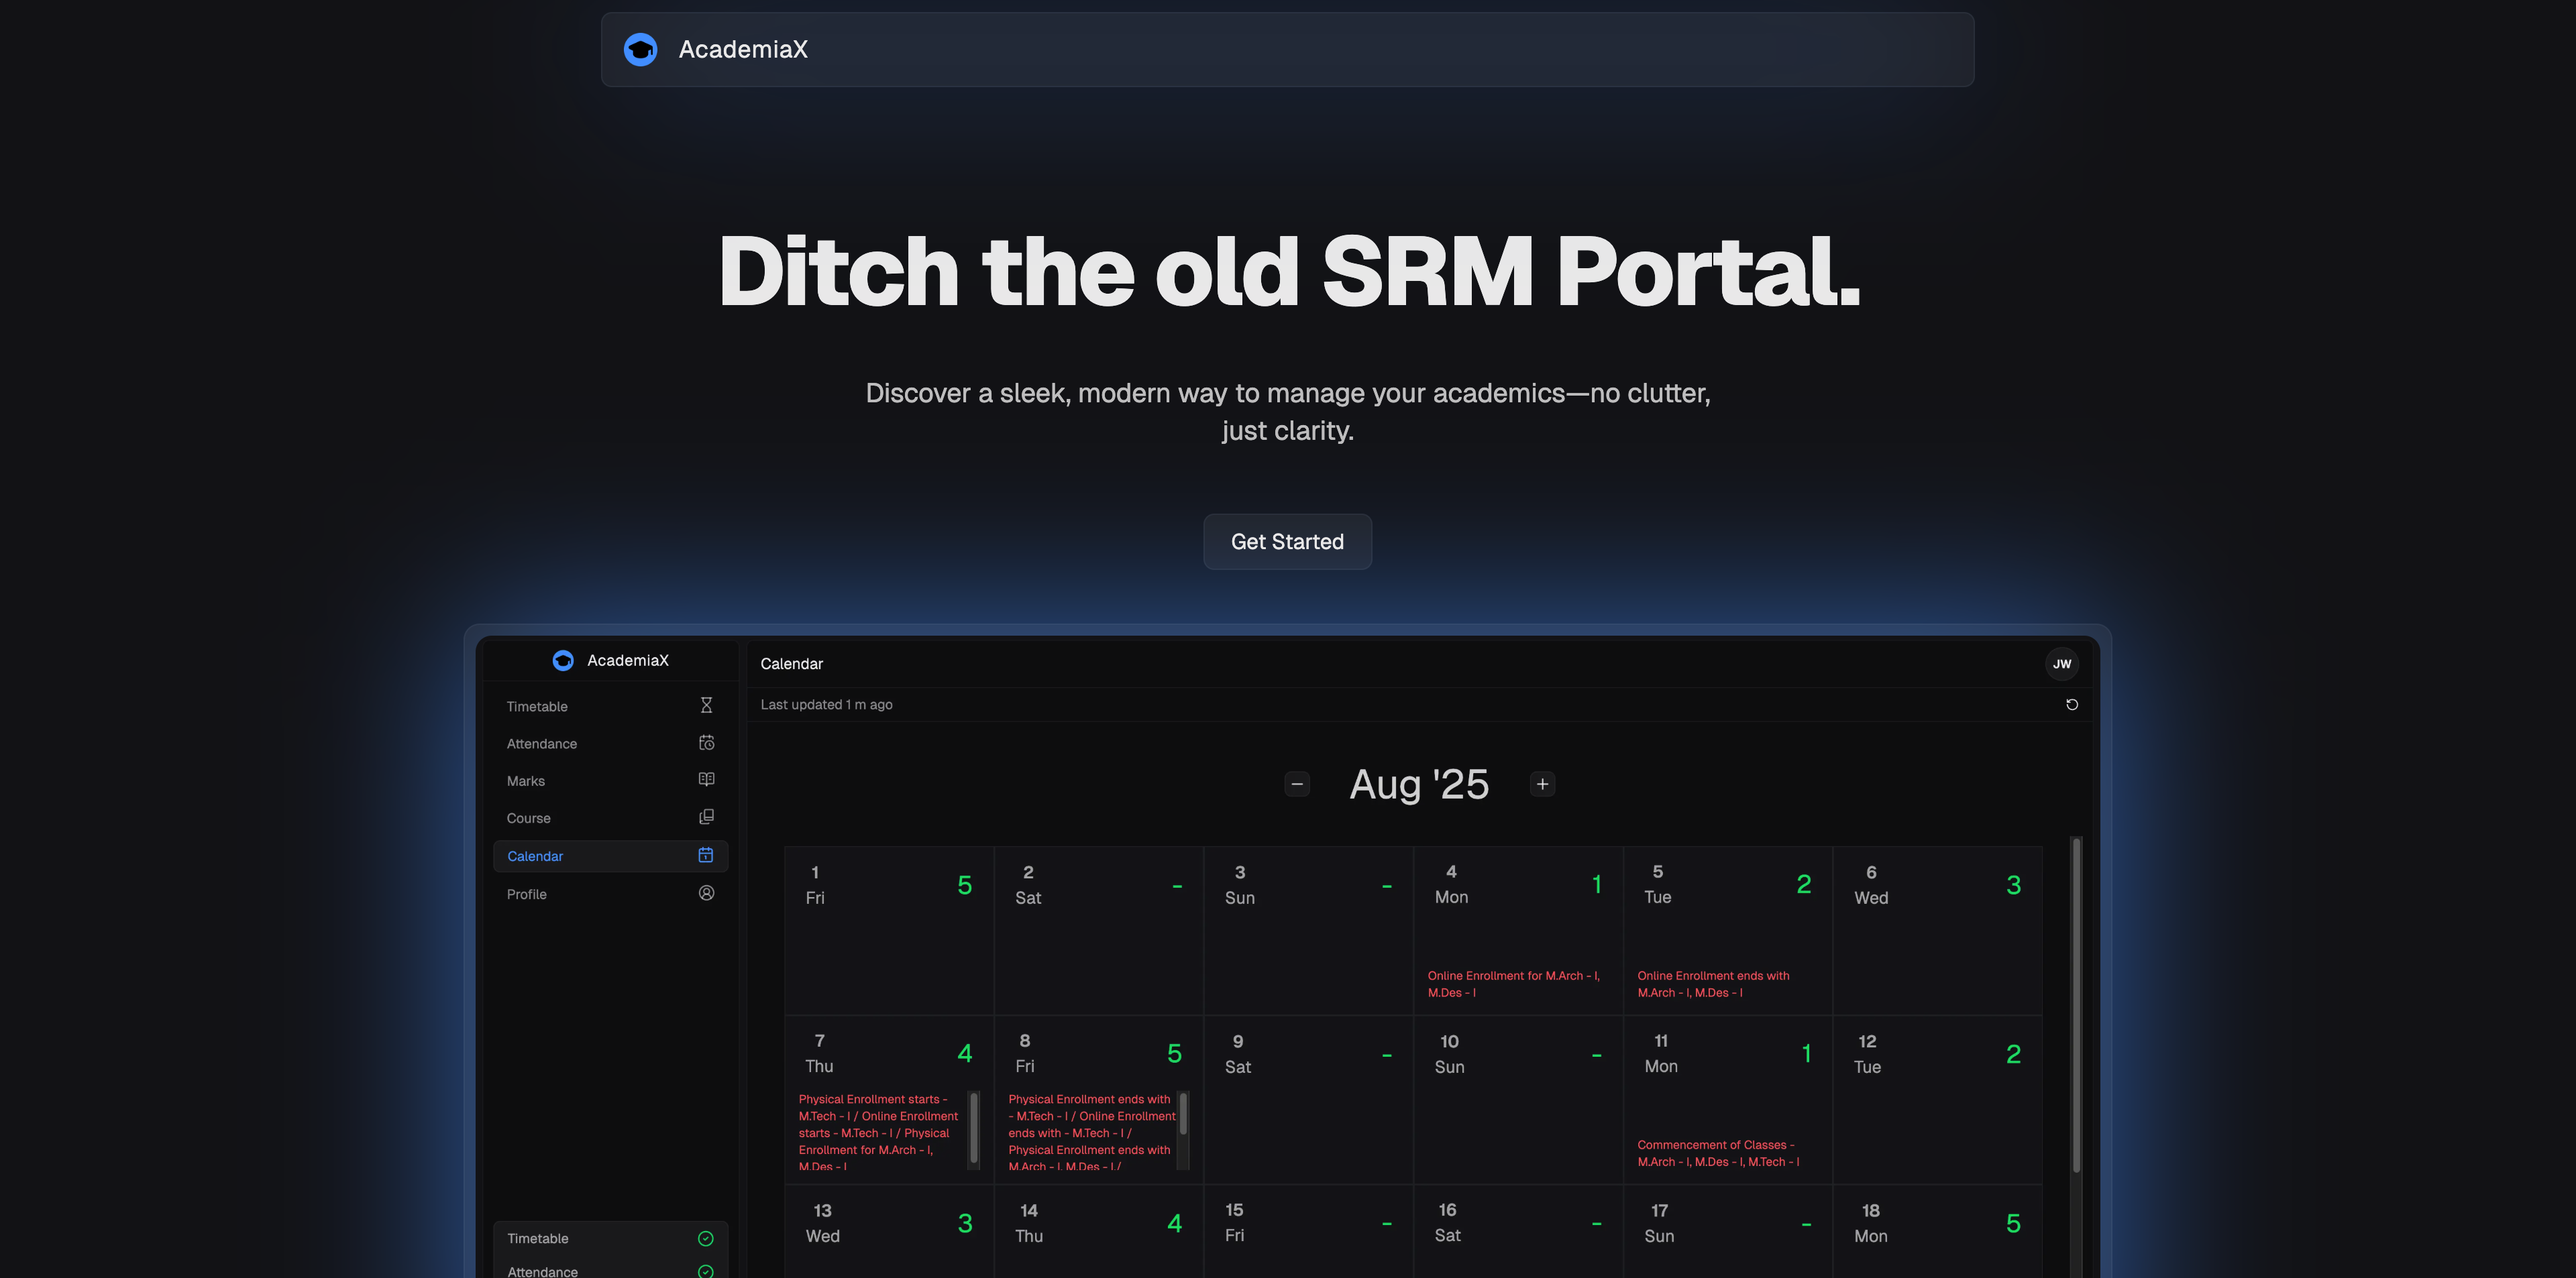
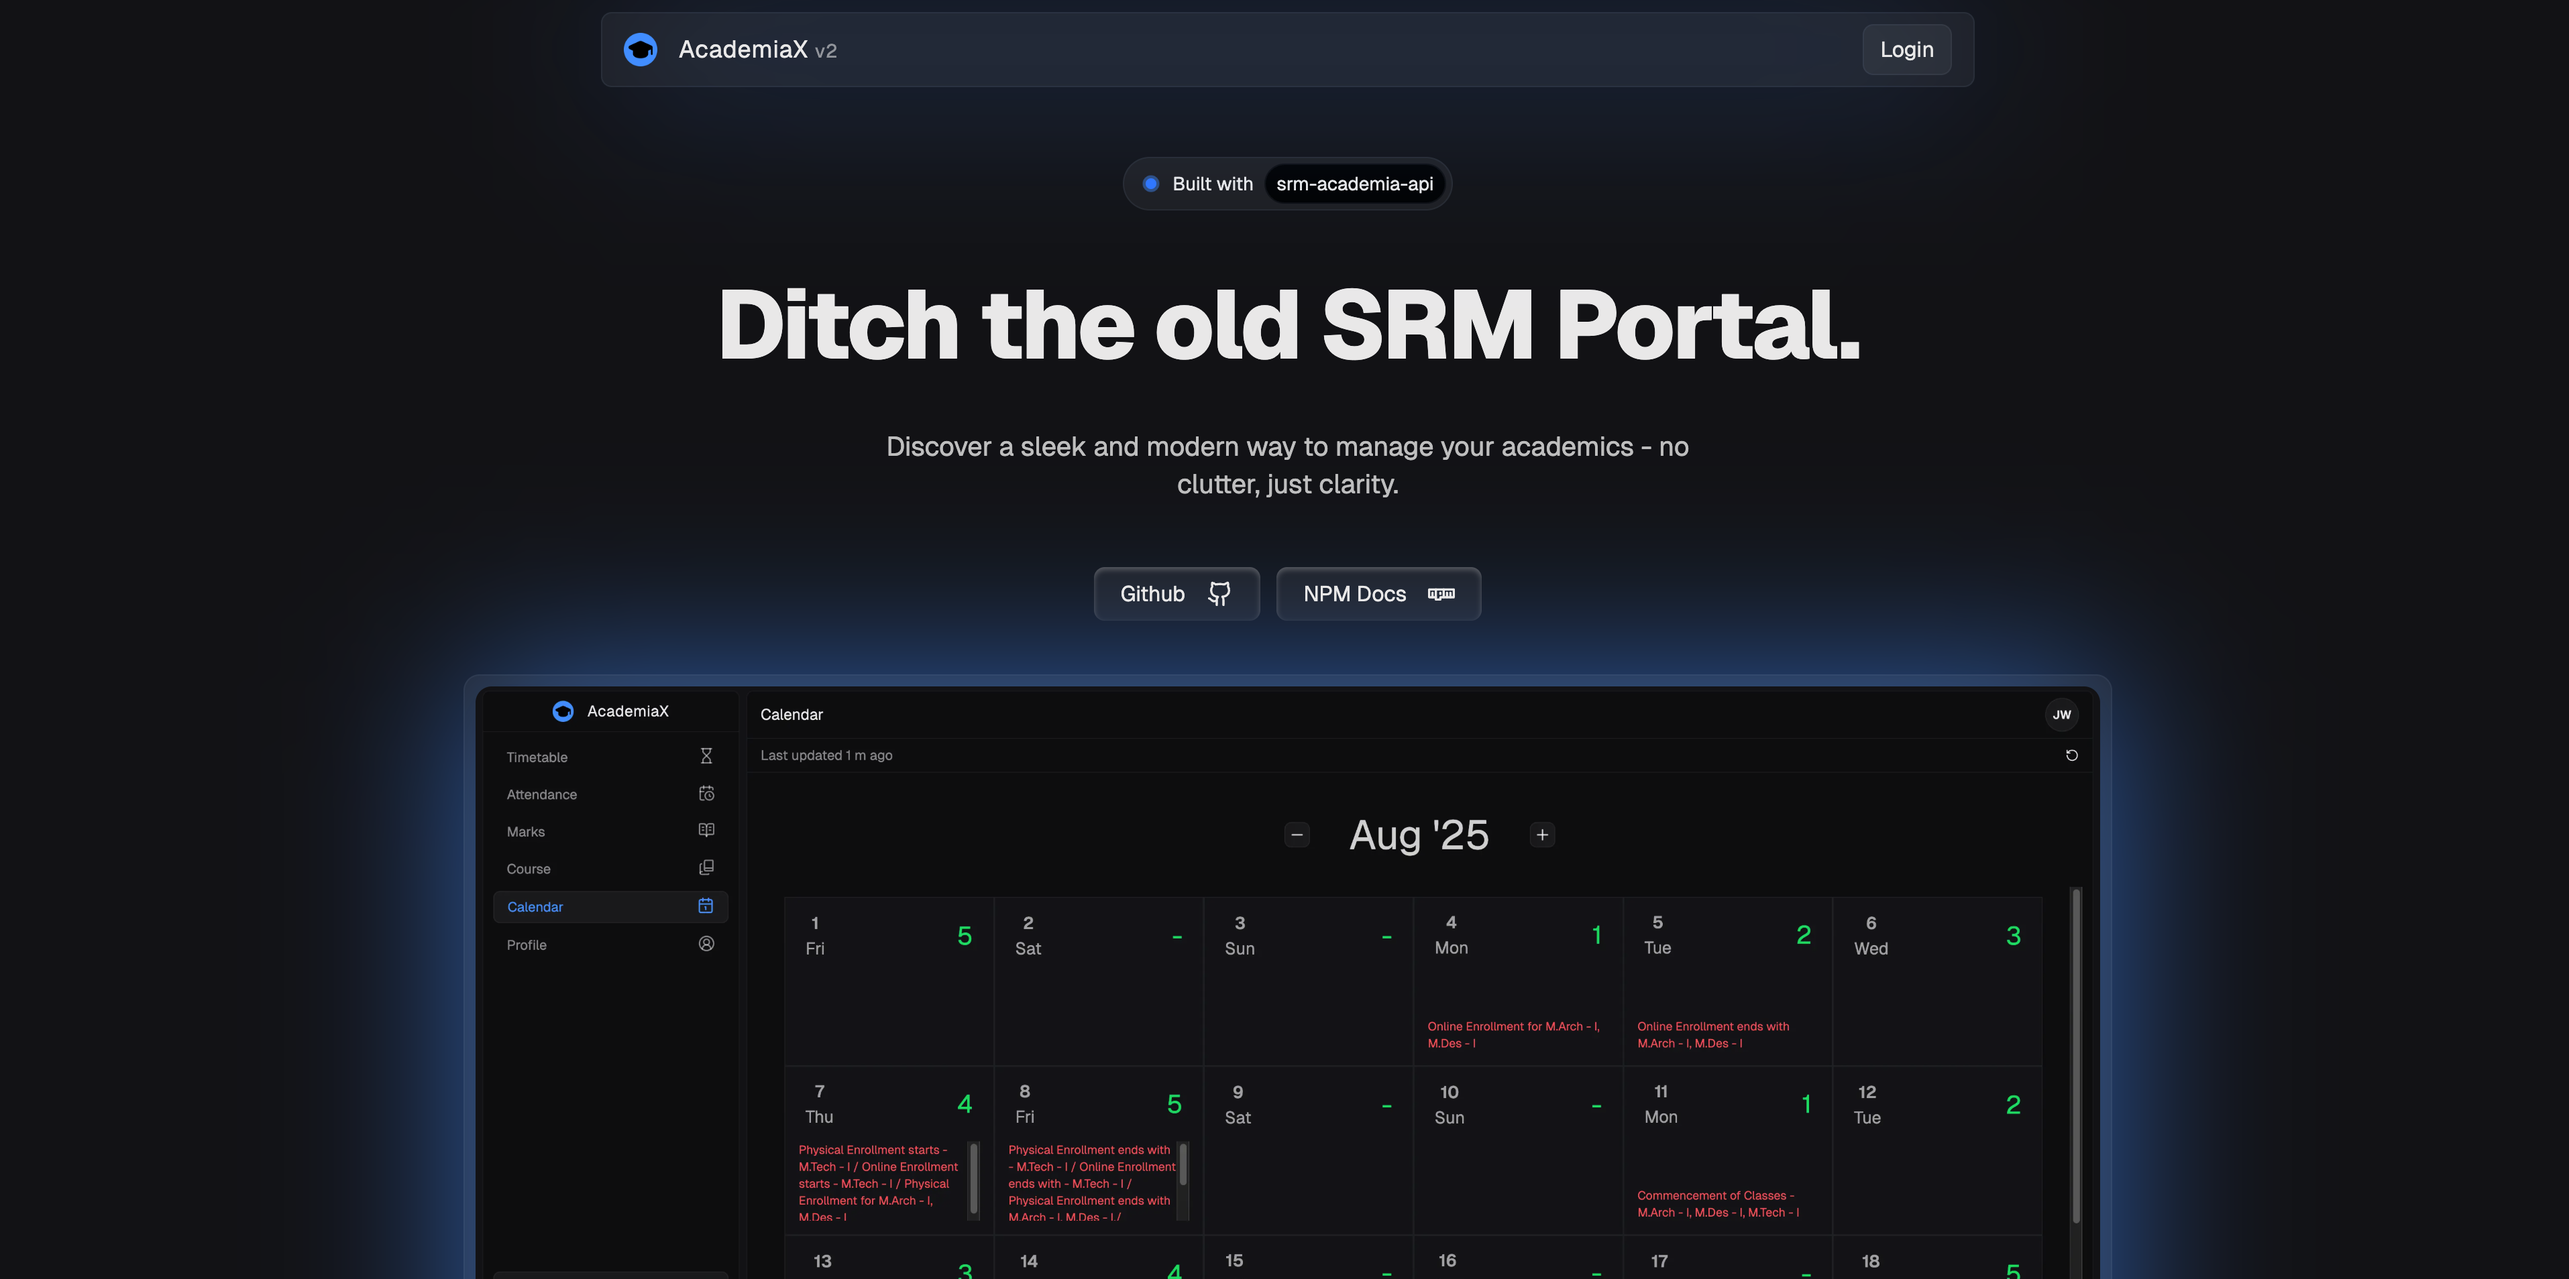
Improved UI

diff --git a/src/app/components/loginComponent.tsx b/src/app/components/loginComponent.tsx
@@ -76,8 +76,8 @@ export const LoginComponent = () => {
   };
   return (
     <div className="flex-1 flex items-center justify-center px-6 lg:px-0">
-      <div className="relative max-w-5xl min-h-[50%] w-full rounded-2xl grid grid-cols-1 lg:grid-cols-2 bg-white/5 apply-border-md backdrop-blur-xs">
-        <div className="absolute inset-0 bg-blue-400/30 blur-3xl -z-10 " />
+      <div className="relative max-w-5xl min-h-[50%] w-full rounded-2xl grid grid-cols-1 lg:grid-cols-2 bg-white/5 apply-border-md backdrop-blur-3xl apply-inner-shadow-sm">
+        <div className="absolute inset-0 bg-blue-400/40 blur-3xl -z-10 " />
 
         <div className="flex items-center justify-center min-h-20 lg:text-4xl h-full text-2xl ">
           Login
@@ -94,7 +94,7 @@ export const LoginComponent = () => {
                   id="name"
                   name="name"
                   type="name"
-                  className="w-full px-4 py-2 rounded-xl  bg-white/5 border apply-border-md focus:outline-none focus:ring-2 focus:ring-white/20"
+                  className="w-full px-4 py-3 rounded-xl apply-inner-shadow-sm bg-white/10 focus:outline-none "
                   placeholder="SRM Mail ID"
                   autoComplete="email"
                   autoFocus
@@ -108,7 +108,7 @@ export const LoginComponent = () => {
                     id="password"
                     name="password"
                     type={eyeOpen ? "name" : "password"}
-                    className=" w-full px-4 py-2 rounded-xl bg-white/5 border apply-border-md focus:outline-none focus:ring-2 focus:ring-white/20"
+                    className="w-full px-4 py-3 rounded-xl apply-inner-shadow-sm bg-white/10 focus:outline-none "
                     placeholder="Password"
                     autoComplete="current-password"
                     autoFocus
@@ -134,7 +134,7 @@ export const LoginComponent = () => {
             <button
               type="submit"
               disabled={loading}
-              className="w-full py-2.5  bg-black  text-white flex items-center justify-center border border-white/15 hover:bg-[#23252a] hover:border-white/5 transition rounded-xl cursor-pointer"
+              className="w-full px-4 py-3 rounded-xl apply-inner-shadow-md bg-black  focus:outline-none  flex item-center justify-center cursor-pointer"
             >
               {loading ? <Loader className="w-5 h-5 " /> : "Authenticate"}
             </button>

diff --git a/src/app/app/components/heroSection.tsx b/src/app/app/components/heroSection.tsx
@@ -39,7 +39,7 @@ const Content = () => {
         <a
           href="https://github.com/jackwaghan/academiax"
           target="_blank"
-          className="px-5 py-2 rounded-lg apply-border-md bg-white/5 gap-4 flex items-center justify-between "
+          className="px-5 py-2 rounded-lg  bg-white/5 gap-4 flex items-center justify-between apply-inner-shadow-md"
         >
           <h1>Github</h1>
           <Github className="w-5 h-5" />
@@ -47,7 +47,7 @@ const Content = () => {
         <a
           href="https://www.npmjs.com/package/srm-academia-api"
           target="_blank"
-          className="px-5 py-2 rounded-lg apply-border-md bg-white/5 flex items-center justify-between gap-4 "
+          className="px-5 py-2 rounded-lg apply-inner-shadow-md  bg-white/5 flex items-center justify-between gap-4 "
         >
           <h1>NPM Docs</h1>
           <TbBrandNpm className="w-5 h-5" />

diff --git a/src/app/components/header.tsx b/src/app/components/header.tsx
@@ -5,7 +5,7 @@ import Icon from "@/../public/favicon.svg";
 const Header = ({ value }: { value: string }) => {
   return (
     <div className="w-full min-h-20 flex items-center justify-center lg:px-0 px-3">
-      <div className="relative max-w-5xl w-full flex px-4 h-[70%] items-center justify-between apply-border-md rounded-lg bg-white/5 backdrop-blur-xs">
+      <div className="relative max-w-5xl w-full flex px-4 h-[70%] items-center justify-between apply-border-md rounded-lg bg-white/5 backdrop-blur-xs ">
         <div className="absolute inset-0 bg-blue-400/30 blur-3xl -z-10 " />
         <div className="flex gap-4 items-center justify-center">
           <Image src={Icon} width={25} height={25} alt="icon" />

diff --git a/src/app/app/profile/page.tsx b/src/app/app/profile/page.tsx
@@ -37,7 +37,7 @@ const Data = ({ data }: { data: UserInfo }) => {
           <h1 className="text-2xl font-semibold text-blue-400">{data.name}</h1>
           <span>{data.department}</span>
         </div>
-        <div className="w-full flex flex-col gap-5 bg-[#1b1c21] rounded-lg px-4 py-4 border border-white/5 ">
+        <div className="w-full flex flex-col gap-4 bg-[#1b1c21] rounded-lg px-4 py-4 border border-white/5 ">
           <ProfileRow label="Reg. Number" value={data.regNumber} />
           <ProfileRow label="Mobile" value={data.mobile} />
           <ProfileRow label="Semester" value={data.semester} />

diff --git a/src/app/app/marks/page.tsx b/src/app/app/marks/page.tsx
@@ -40,7 +40,7 @@ const Data = ({ data, category }: { data: MarkDetail[]; category: string }) => {
         return (
           <div
             key={i}
-            className="flex flex-col items-center gap-3 rounded-xl apply-border-md bg-[#16171b] min-h-50 shadow-2xl "
+            className="flex flex-col items-center gap-3 rounded-xl apply-border-md bg-[#16171b] min-h-50 shadow-2xl  "
           >
             <div className="w-full h-full text-white/70  flex flex-col gap-4 ">
               <div className="flex justify-between w-full px-2 min-h-14 items-center border-b border-white/5 gap-4 ">

diff --git a/src/app/app/course/page.tsx b/src/app/app/course/page.tsx
@@ -27,7 +27,7 @@ const Data = ({ data }: { data: CourseDetail[] }) => {
         return (
           <div
             key={i}
-            className="flex flex-col items-center gap-3 rounded-xl apply-border-md bg-[#16171b] min-h-50 shadow-2xl "
+            className="flex flex-col items-center gap-3 rounded-xl apply-border-md bg-[#16171b] min-h-50 shadow-2xl  "
           >
             <div className="w-full h-full text-white/70  flex flex-col gap-4 ">
               <div className="flex justify-between w-full px-2 min-h-12 items-center border-b border-white/5">

diff --git a/src/app/app/attendance/page.tsx b/src/app/app/attendance/page.tsx
@@ -42,7 +42,7 @@ const Data = ({
         return (
           <div
             key={i}
-            className="flex flex-col items-center gap-3 rounded-xl apply-border-md bg-[#16171b] min-h-50 shadow-2xl "
+            className="flex flex-col items-center gap-3 rounded-xl apply-border-md bg-[#16171b] min-h-50 shadow-2xl  "
           >
             <div className="w-full h-full text-white/70  flex flex-col gap-4 ">
               <div className="flex justify-between w-full px-2 min-h-12 items-center border-b border-white/5">

diff --git a/src/app/app/components/sidebar.tsx b/src/app/app/components/sidebar.tsx
@@ -110,7 +110,7 @@ const Menu = () => {
             key={i.name}
             href={i.url}
             onClick={SidebarToggle}
-            className={`flex gap-3 justify-between px-4 py-1.5 capitalize ${
+            className={`flex gap-3 justify-between px-4 py-2 capitalize ${
               i.url === path
                 ? "apply-border-sm bg-white/5  rounded-lg text-blue-400"
                 : "text-white/50"

diff --git a/src/app/globals.css b/src/app/globals.css
@@ -33,4 +33,13 @@ body {
   .background-rounded {
     @apply bg-white/5  px-2 py-0.5 rounded-full text-sm;
   }
+  .apply-inner-shadow-sm {
+    @apply inset-shadow-sm inset-shadow-white/15;
+  }
+  .apply-inner-shadow-md {
+    @apply inset-shadow-sm inset-shadow-white/25;
+  }
+  .apply-inner-shadow-xs {
+    @apply inset-shadow-sm inset-shadow-white/5;
+  }
 }
